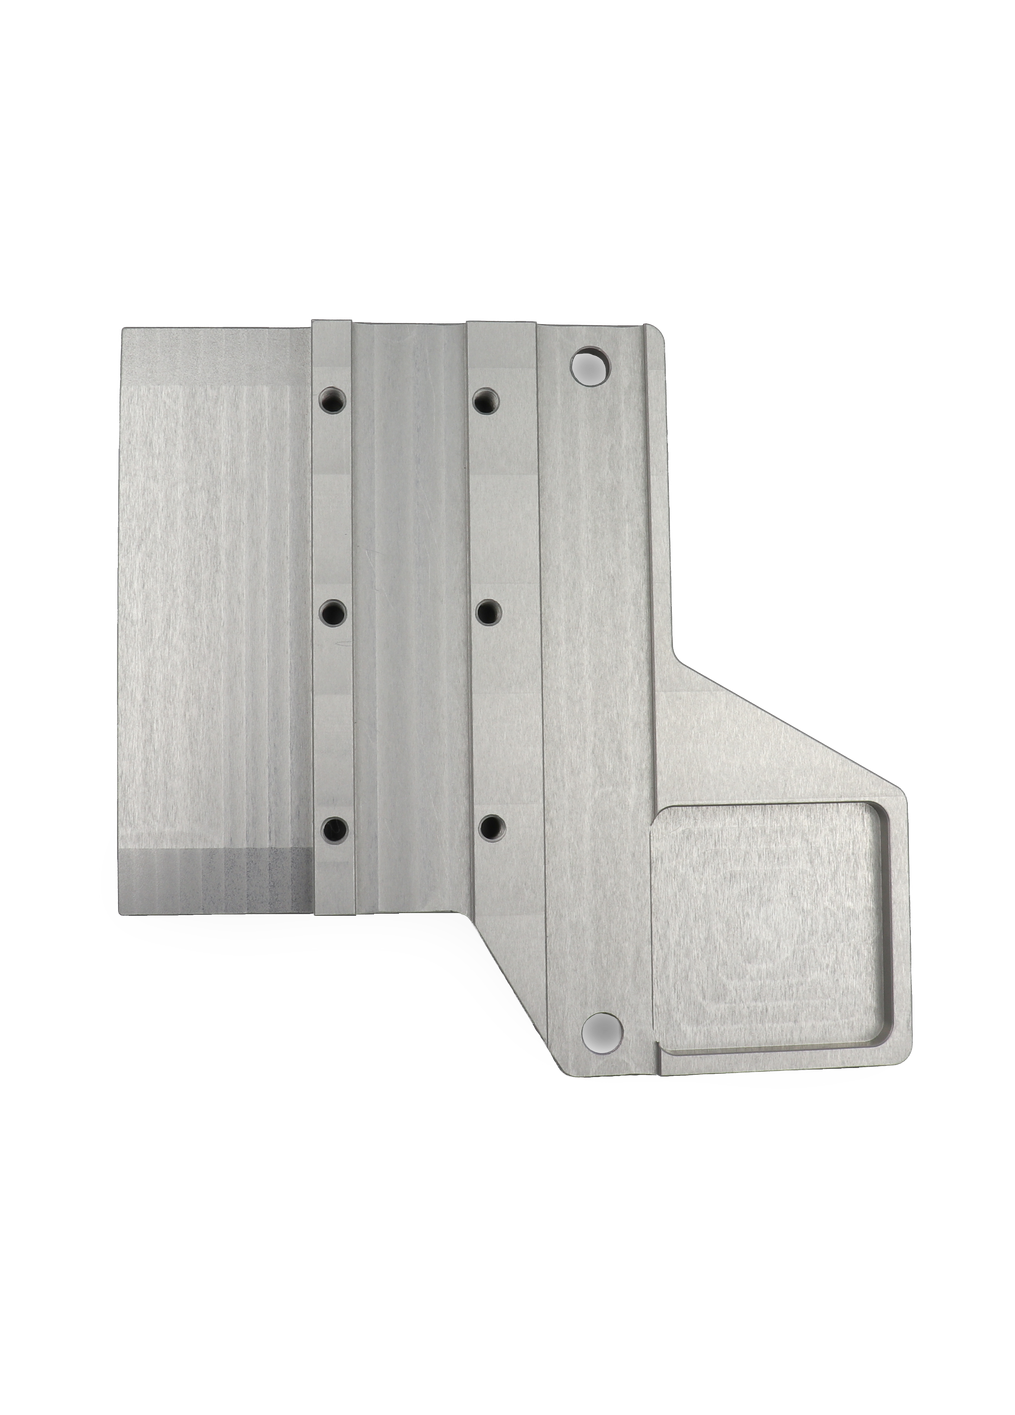
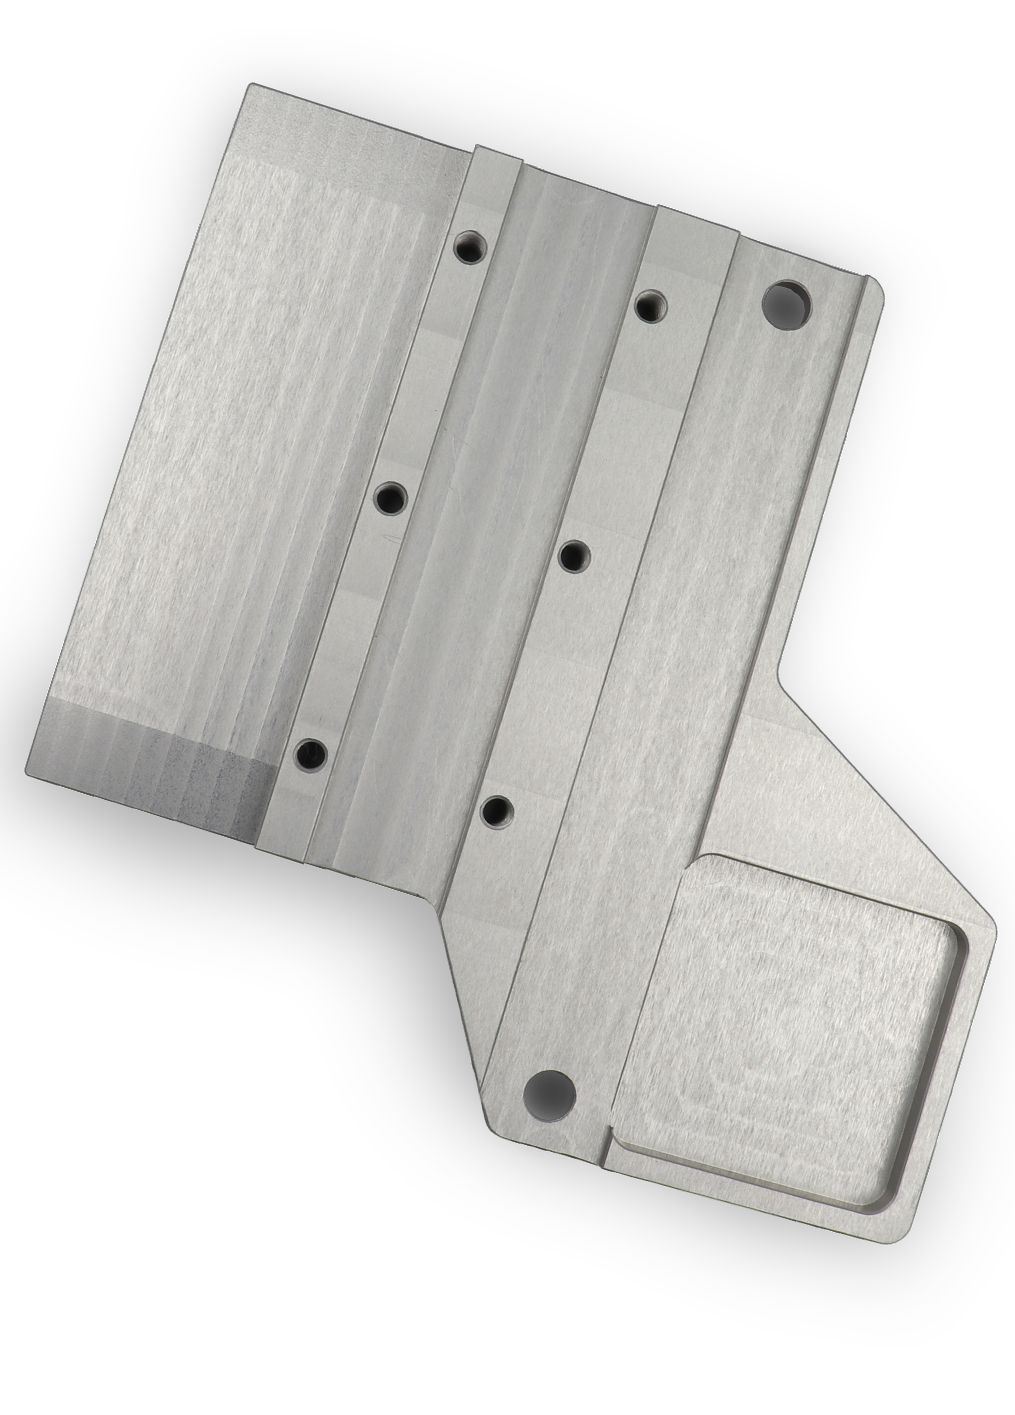
Add updated metalworking header images

Changed region(s): [[0.0, 0.0622, 1.0, 0.9018], [0.5192, 0.5908, 0.5498, 0.6841], [0.5498, 0.5597, 0.5803, 0.5908]]

diff --git a/metalworking.html b/metalworking.html
@@ -153,7 +153,7 @@
                         <img src="assets/images/header-front.png" alt="Automotive metalworking components at Sulimet" class="hero-img hero-img-active" id="hero-img-front">
                         <img src="assets/images/header-back.png" alt="Metalworking services at Sulimet" class="hero-img" id="hero-img-back">
                         <img src="assets/images/header-food-portrait.png" alt="Food industry metalworking components at Sulimet" class="hero-img" id="hero-img-food">
-                        <img src="assets/images/header-industrial-portrait.png" alt="Industrial metalworking components at Sulimet" class="hero-img" id="hero-img-industrial">
+                        <img src="assets/images/industrial.png" alt="Industrial metalworking components at Sulimet" class="hero-img" id="hero-img-industrial">
                         <div class="hero-annotations hero-annotations-active" id="hero-annotations">
                             <div class="annotation-bracket-v"></div>
                             <div class="annotation-arm annotation-arm-bottom"></div>
